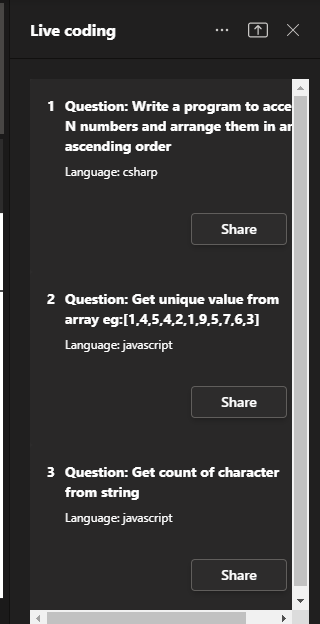
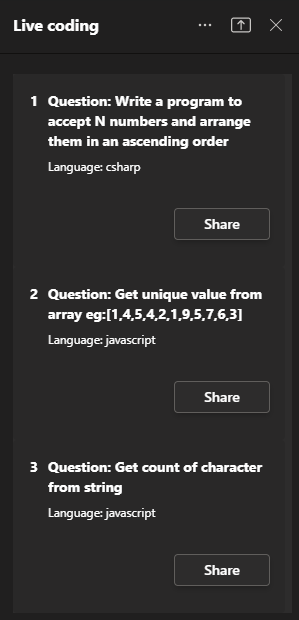
resolving comments

diff --git a/samples/meetings-live-code-interview/nodejs/ClientApp/src/components/question.tsx b/samples/meetings-live-code-interview/nodejs/ClientApp/src/components/question.tsx
@@ -8,44 +8,51 @@ import "./tab.css"
 
 const Question = (props: any) => {
     const params = props.match.params;
-    const questionNumber = params['srno'];
+    const questionNumber = params['questionId'];
     const [data, setData] = React.useState();
-    const socket = io();
+    const [socket, setSocket] = React.useState(io());
 
     React.useEffect(() => {
         microsoftTeams.initialize();
-
+        setSocket(io());
     }, [])
 
-    const debounce = (callback: any, lim: any) => {
-        let timer: any;
-        return (...args: any) => {
-            clearTimeout(timer);
-            timer = setTimeout(() => {
-                callback.apply(this, args);
-            }, lim)
-        }
-    }
-
-    // Handle editor value change. 
-    const handleEditor = debounce((value: any) => {
-        socket.on('connection', () => {
-        });
-        socket.emit('message', value);
-    }, 2000);
+    // subscribe to the socket event
+    React.useEffect(() => {
+    if (!socket) return;
+    socket.on('connection', () => {
+        socket.connect();
+    });
 
     // get latest state of editor.
     socket.on("message", data => {
         setData(data);
     });
+ 
+  }, [socket]);
+
+    const emitMessageAction = (handleEditorChange: any, time: any) => {
+        let timer: any;
+        return (...argument: any) => {
+            clearTimeout(timer);
+            timer = setTimeout(() => {
+                handleEditorChange.apply(this, argument);
+            }, time)
+        }
+    }
+
+    // Handle editor value change. 
+    const handleEditor = emitMessageAction((value: any) => {
+        socket.emit('message', value);
+    }, 2000);
 
     return (
         <>
             {IQuestionDetails.questions ? IQuestionDetails.questions.map((question) => {
-                if (question.srNo == questionNumber) {
+                if (question.questionId == questionNumber) {
                     return <>
                         <Flex gap="gap.small">
-                            <Text content={question.srNo} weight="bold" />
+                            <Text content={question.questionId} weight="bold" />
                             <Flex column>
                                 <Text className="text-ui" content={"Question: " + question.question} weight="bold" />
                                 <Text className="text-ui" content={"Language: " + question.language} size="small" />

diff --git a/samples/meetings-live-code-interview/nodejs/ClientApp/src/components/tab.tsx b/samples/meetings-live-code-interview/nodejs/ClientApp/src/components/tab.tsx
@@ -5,7 +5,6 @@ import "./tab.css"
 import { IQuestionDetails } from '../types/question';
 
 const Tab = () => {
-
     const [frameContext, setframeContext] = React.useState<any>('');
     React.useEffect(() => {
         microsoftTeams.initialize();
@@ -35,10 +34,10 @@ const Tab = () => {
         <>
             <div hidden={frameContext !== "sidePanel"}>
                 {IQuestionDetails.questions ? IQuestionDetails.questions.map((question) => {
-                    return <Card>
+                    return <Card className="card">
                         <CardHeader>
                             <Flex gap="gap.small">
-                                <Text content={question.srNo} weight="bold" />
+                                <Text content={question.questionId} weight="bold" />
                                 <Flex column>
                                     <Text className="text-ui" content={"Question: " + question.question} weight="bold" />
                                     <Text className="text-ui" content={"Language: " + question.language} size="small" />
@@ -46,10 +45,10 @@ const Tab = () => {
                             </Flex>
                         </CardHeader>
                         <CardBody>
-                            <Button className="send-btn" content="Share" onClick={() => shareSpecificPart(question.srNo)} />
+                            <Button className="send-btn" content="Share" onClick={() => shareSpecificPart(question.questionId)} />
                         </CardBody>
                     </Card>
-                }) : null}
+                }) : <div> No content to show</div>}
             </div>
         </>
     )

diff --git a/samples/meetings-live-code-interview/nodejs/ClientApp/src/types/question.ts b/samples/meetings-live-code-interview/nodejs/ClientApp/src/types/question.ts
@@ -1,21 +1,22 @@
+// Sample question details. 
 export const IQuestionDetails = {
     questions: [
         {
-            srNo : 1,
+            questionId : 1,
             question:"Write a program to accept N numbers and arrange them in an ascending order",
             language:"csharp",
             expectedOuput:"For array with 7 elements containing [6,3,7,4,2,0,8] the output will be [0,2,3,4,6,7,8]",
             defaultValue:"using System;\nnamespace SortAnArray\n{\n public class SortAnArray\n  {\n    static void Main(string[] args) { \n     \/\/ Write your code here \n   }\n  }\n}"
         },
         {
-            srNo : 2,
+            questionId : 2,
             question:"Get unique value from array eg:[1,4,5,4,2,1,9,5,7,6,3]",
             expectedOuput:"[1,4,5,2,9,6,3]",
             language:"javascript",
             defaultValue:"const arr = [1,4,5,4,2,1,9,5,7,6,3]; \n\n function getUniqueElement(arr){ \n   \/\/write your code here\n }"
         },
         {
-            srNo : 3,
+            questionId : 3,
             question:"Get count of character from string",
             expectedOuput:"if string is 'javascript' then output will be {j:1,a:2,v:1,s:1,c:1,r:1,i:1,p:1,t:1}",
             language:"javascript",

diff --git a/samples/meetings-live-code-interview/nodejs/ClientApp/src/App.tsx b/samples/meetings-live-code-interview/nodejs/ClientApp/src/App.tsx
@@ -98,13 +98,13 @@ class App extends React.Component<{}, IAppState> {
     });
     return (
       <TeamsThemeContext.Provider value={context}>
-        <Suspense fallback={<div></div>}>
+        <Suspense fallback={<div> Something went wrong</div>}>
           <div className="appContainer">
             <Router>
               <Switch>
                 <Route exact path='/configure' component={Configuration}></Route>
                 <Route exact path='/tab' component={Tab}></Route>
-                <Route exact path='/question/:srno' component={Question}></Route>
+                <Route exact path='/question/:questionId' component={Question}></Route>
               </Switch>
             </Router>
           </div>

diff --git a/samples/meetings-live-code-interview/nodejs/ClientApp/src/components/tab.css b/samples/meetings-live-code-interview/nodejs/ClientApp/src/components/tab.css
@@ -1,20 +1,12 @@
-.text-label {
-    margin-top: 0.2rem !important;
-}
 .send-btn {
     margin-left:9rem !important;
     margin-top: 1rem !important;
     max-width:3rem !important;
 }
 
-.ed-label {
-    margin-left: 2rem !important;
-    margin-top: 0.5rem !important;
-}
-
-.ed-container {
-    margin-top: 1rem !important;
-}
 .text-ui{
     margin-bottom: 0.5rem;
+}
+.card{
+    width:17.2rem !important;
 }
